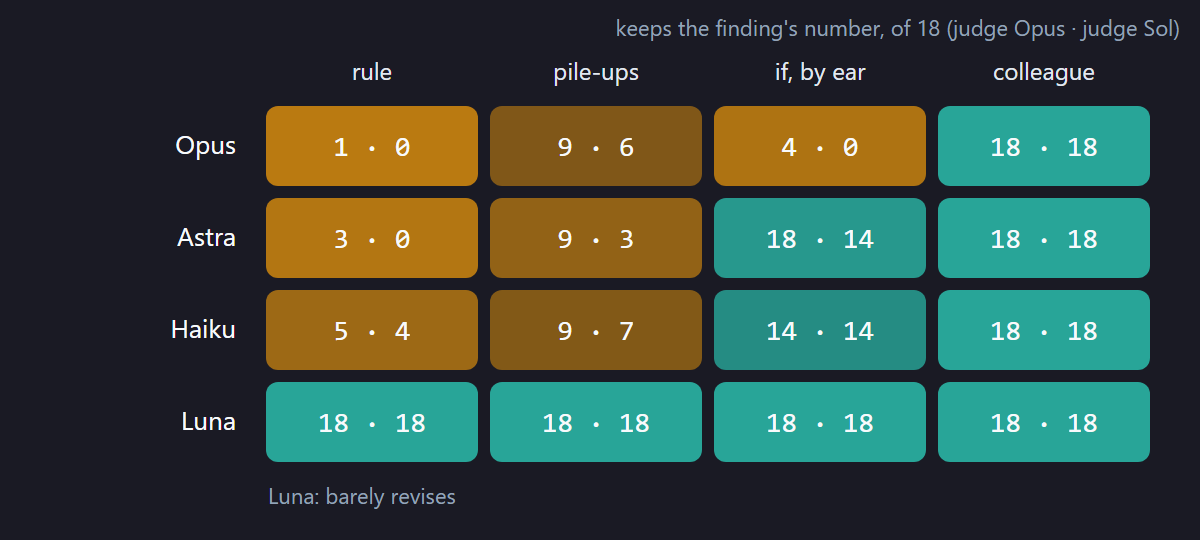
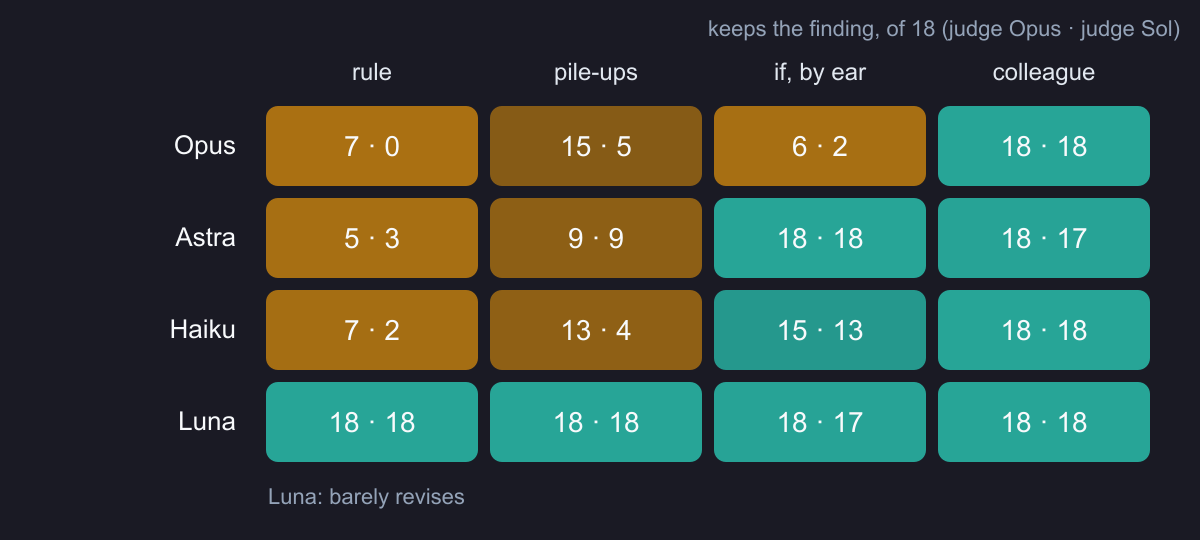
a-role-not-a-rule: real episode as the opening, finding-based judge, the exposed patch (#206)
The opening used '4 times in 791' -> 'almost never' as the damage, but that is
what the source article itself says. The real revision (agilabs-video-studio
74eb78b) shows the overfitting instead: the rule fired on lone figures that
needed nothing, and on the repetition pile-up it took the size of the finding.
Figures now come from the second judge, which reads the source article.

diff --git a/src/content/blog/en/a-role-not-a-rule.md b/src/content/blog/en/a-role-not-a-rule.md
@@ -1,6 +1,6 @@
 ---
 title: "A Role, Not a Rule"
-description: "Skills work better written as a role than as a list of rules: a rule gets applied to every case, a role carries the purpose that tells the cases apart. My video skill is one example. A numbers rule made Opus strip the finding's number from the voice; \"say it like a colleague\" kept it. I measured it across four skill versions and four models, and the more obedient the model, the worse the rule."
+description: "Skills work better written as a role than as a list of rules: a rule gets applied to every case, a role carries the purpose that tells the cases apart. My video skill is one example. A rule written against strings of figures made Opus take numbers out of the voice everywhere, including the finding that needed its size; \"say it like a colleague\" kept it. I measured it across four skill versions and four models, and the more obedient the model, the worse the rule."
 pubDate: 2026-11-14
 tags: ["AI", "Skills", "Prompting", "Evaluation", "Research"]
 lang: en
@@ -27,17 +27,17 @@ I make short narrated videos of my articles ([they're on Instagram](https://www.
 
 > Spoken numbers sparingly. Never chain several figures in a row, and avoid repetitive or unround values in the voice: say the one number that carries the point […] and leave the rest on screen or out.
 
-Then I asked Opus to revise two existing scripts with the updated skill. It removed every number from the voice:
+Then I asked Opus to revise two existing scripts with the updated skill. The line was written against strings of figures, and Opus applied it to every number in the voice, strung together or not:
 
 <div class="table-wrap"><table class="rtn-ba">
 <thead><tr><th>before</th><th>after</th></tr></thead>
 <tbody>
-<tr><td>"With the fact in plain sight, Opus adopted the wrong conclusion 4 times in 791."</td><td>"With the fact in plain sight, Opus almost never adopted the wrong conclusion."</td></tr>
-<tr><td>"Gemini 3 Flash: 88%, against 3% and 0%."</td><td>"Gemini 3 Flash: almost always, against almost never."</td></tr>
+<tr><td>"Its own subagent's report? Answered straight away 25% of the time."</td><td>"Its own subagent's report? Answered straight away a quarter of the time."</td></tr>
+<tr><td>"Aligned models: ~0.10 repetition. The base: 0.51, multi-turn 0.78."</td><td>"Aligned models barely repeat. The base does, and more over many turns."</td></tr>
 </tbody>
 </table></div>
 
-The first line was the finding of the whole article. After the revision, the voice didn't say a single figure from the study.
+The first line had one figure and nothing to fix. The swap does no harm, but the rule fired where it had no business. The second line was a real pile-up, and the fix took the finding with it: the base model repeats about five times as much as the aligned ones, and "more" doesn't say that. That is a rule overfitted to the case that prompted it: written for one symptom, applied to everything that looks like it.
 
 So I corrected the correction, three times in a row. Each version of the line is a real commit:
 
@@ -56,16 +56,7 @@ A story about my own videos isn't evidence, so I measured it.
 
 First, the same situation: the same two scripts, revised by Opus under each of the four versions, three times each.
 
-The headline of the first script, "4 times in 791", came through like this:
-
-| version | what Opus says in the three runs |
-|---|---|
-| rule | "almost never" twice, "only 4 times" once (without the 791) |
-| pile-ups | "4 times in 791" all three times |
-| if, by ear | "almost never" all three times |
-| colleague | "4 times in 791" all three times |
-
-The rule also turned "47% with long context" into "more often" all three times, which says less than the screen behind it. The episode reproduces, and the patched `if` is no better than the rule it replaced.
+The rule took the size out of the repetition line all three times ("The aligned models barely repeat. The base is on another planet."). In the subagent script, where the real revision had said "almost half", it turned "47% with long context" into "more often" all three times, which says less than the screen behind it. The patched `if` said "almost half" there, and lost the repetition gap just like the rule. Under the colleague, Opus kept the 47% all three times ("With long context, that rose to 47%"). On the repetition line it kept the three figures as they were, which isn't the fix either; I come back to that below.
 
 ## On scripts it had never seen
 
@@ -73,40 +64,40 @@ Those two scripts are the ones that broke the skill, and every version after the
 
 For each article, Opus wrote a first script with the skill as it was before any numbers line. Those six drafts are fixed. Then four models revised each draft under each of the four versions, three times: Claude Opus 5.5 and gpt-6-astra (large), Claude Haiku 5.5 and gpt-6-luna (small). That makes 288 revisions.
 
-Two LLM judges, Opus and gpt-6.1-sol, read each revision without knowing which version produced it. A revision passes if every finding the draft said with a number is still said with a number, or with an exact fraction like "a quarter" or "nine in ten". "Almost never", "more often" or "far more" don't count, and neither does moving the number to the screen. Before trusting the judges, I checked them against the reproduction above, where I had read every line myself; they agreed. On the 288 they agree with each other on 92% of the verdicts.
+Two LLM judges, Opus and gpt-6.1-sol, read each revision, together with the article it narrates, without knowing which version produced it. A revision passes if every finding the draft said with a number is still carried by the voice. When the article states a finding qualitatively, words that say the same thing pass: "almost never" for 4 times in 791 is fine when the point is that it almost never happens. When the finding is a size or a gap, the voice has to keep the size, with the number or with a fraction or ratio like "almost half" or "five times as much". "More often", "far more" or "on another planet" don't count, and neither does moving the number to the screen. Before trusting the judges, I checked them against the reproduction above, where I had read every line myself; they agreed. On the 288 they agree with each other on 86% of the verdicts.
 
 <figure class="rtn-fig">
-<svg viewBox="0 0 600 270" role="img" aria-label="Revisions that still say the finding's number, of 18, per model and skill version. Rule: Opus 1, Astra 3, Haiku 5. If by ear: Opus 4, Astra 18, Haiku 14. Colleague: 18 for every model. Luna barely revises and keeps the numbers under every version.">
-<text x="590" y="18" fill="#94a3b8" font-size="11" text-anchor="end" font-family="ui-sans-serif,system-ui,sans-serif">keeps the finding's number, of 18 (judge Opus · judge Sol)</text>
+<svg viewBox="0 0 600 270" role="img" aria-label="Revisions whose voice still carries the finding, of 18, per model and skill version, judge Opus and judge Sol. Rule: Opus 7 and 0, Astra 5 and 3, Haiku 7 and 2. If by ear: Opus 6 and 2, Astra 18 and 18, Haiku 15 and 13. Colleague: 18 for every model except Astra under Sol, 17. Luna barely revises and keeps the numbers under every version.">
+<text x="590" y="18" fill="#94a3b8" font-size="11" text-anchor="end" font-family="ui-sans-serif,system-ui,sans-serif">keeps the finding, of 18 (judge Opus · judge Sol)</text>
 <text x="186" y="40" fill="#e2e8f0" font-size="12" text-anchor="middle" font-family="ui-sans-serif,system-ui,sans-serif">rule</text>
 <text x="298" y="40" fill="#e2e8f0" font-size="12" text-anchor="middle" font-family="ui-sans-serif,system-ui,sans-serif">pile-ups</text>
 <text x="410" y="40" fill="#e2e8f0" font-size="12" text-anchor="middle" font-family="ui-sans-serif,system-ui,sans-serif">if, by ear</text>
 <text x="522" y="40" fill="#e2e8f0" font-size="12" text-anchor="middle" font-family="ui-sans-serif,system-ui,sans-serif">colleague</text>
 <text x="118" y="77" fill="#f8fafc" font-size="13" text-anchor="end" font-family="ui-sans-serif,system-ui,sans-serif">Opus</text>
-<rect x="133" y="53" width="106" height="40" rx="6" fill="#f59e0b" fill-opacity="0.73"/>
-<text x="186" y="78" fill="#f8fafc" font-size="14" text-anchor="middle" font-family="ui-monospace,'JetBrains Mono',monospace">1 · 0</text>
-<rect x="245" y="53" width="106" height="40" rx="6" fill="#f59e0b" fill-opacity="0.47"/>
-<text x="298" y="78" fill="#f8fafc" font-size="14" text-anchor="middle" font-family="ui-monospace,'JetBrains Mono',monospace">9 · 6</text>
-<rect x="357" y="53" width="106" height="40" rx="6" fill="#f59e0b" fill-opacity="0.68"/>
-<text x="410" y="78" fill="#f8fafc" font-size="14" text-anchor="middle" font-family="ui-monospace,'JetBrains Mono',monospace">4 · 0</text>
+<rect x="133" y="53" width="106" height="40" rx="6" fill="#f59e0b" fill-opacity="0.66"/>
+<text x="186" y="78" fill="#f8fafc" font-size="14" text-anchor="middle" font-family="ui-monospace,'JetBrains Mono',monospace">7 · 0</text>
+<rect x="245" y="53" width="106" height="40" rx="6" fill="#f59e0b" fill-opacity="0.50"/>
+<text x="298" y="78" fill="#f8fafc" font-size="14" text-anchor="middle" font-family="ui-monospace,'JetBrains Mono',monospace">15 · 5</text>
+<rect x="357" y="53" width="106" height="40" rx="6" fill="#f59e0b" fill-opacity="0.65"/>
+<text x="410" y="78" fill="#f8fafc" font-size="14" text-anchor="middle" font-family="ui-monospace,'JetBrains Mono',monospace">6 · 2</text>
 <rect x="469" y="53" width="106" height="40" rx="6" fill="#2dd4bf" fill-opacity="0.75"/>
 <text x="522" y="78" fill="#f8fafc" font-size="14" text-anchor="middle" font-family="ui-monospace,'JetBrains Mono',monospace">18 · 18</text>
 <text x="118" y="123" fill="#f8fafc" font-size="13" text-anchor="end" font-family="ui-sans-serif,system-ui,sans-serif">Astra</text>
-<rect x="133" y="99" width="106" height="40" rx="6" fill="#f59e0b" fill-opacity="0.70"/>
-<text x="186" y="124" fill="#f8fafc" font-size="14" text-anchor="middle" font-family="ui-monospace,'JetBrains Mono',monospace">3 · 0</text>
-<rect x="245" y="99" width="106" height="40" rx="6" fill="#f59e0b" fill-opacity="0.55"/>
-<text x="298" y="124" fill="#f8fafc" font-size="14" text-anchor="middle" font-family="ui-monospace,'JetBrains Mono',monospace">9 · 3</text>
-<rect x="357" y="99" width="106" height="40" rx="6" fill="#2dd4bf" fill-opacity="0.68"/>
-<text x="410" y="124" fill="#f8fafc" font-size="14" text-anchor="middle" font-family="ui-monospace,'JetBrains Mono',monospace">18 · 14</text>
-<rect x="469" y="99" width="106" height="40" rx="6" fill="#2dd4bf" fill-opacity="0.75"/>
-<text x="522" y="124" fill="#f8fafc" font-size="14" text-anchor="middle" font-family="ui-monospace,'JetBrains Mono',monospace">18 · 18</text>
+<rect x="133" y="99" width="106" height="40" rx="6" fill="#f59e0b" fill-opacity="0.65"/>
+<text x="186" y="124" fill="#f8fafc" font-size="14" text-anchor="middle" font-family="ui-monospace,'JetBrains Mono',monospace">5 · 3</text>
+<rect x="245" y="99" width="106" height="40" rx="6" fill="#f59e0b" fill-opacity="0.53"/>
+<text x="298" y="124" fill="#f8fafc" font-size="14" text-anchor="middle" font-family="ui-monospace,'JetBrains Mono',monospace">9 · 9</text>
+<rect x="357" y="99" width="106" height="40" rx="6" fill="#2dd4bf" fill-opacity="0.75"/>
+<text x="410" y="124" fill="#f8fafc" font-size="14" text-anchor="middle" font-family="ui-monospace,'JetBrains Mono',monospace">18 · 18</text>
+<rect x="469" y="99" width="106" height="40" rx="6" fill="#2dd4bf" fill-opacity="0.74"/>
+<text x="522" y="124" fill="#f8fafc" font-size="14" text-anchor="middle" font-family="ui-monospace,'JetBrains Mono',monospace">18 · 17</text>
 <text x="118" y="169" fill="#f8fafc" font-size="13" text-anchor="end" font-family="ui-sans-serif,system-ui,sans-serif">Haiku</text>
-<rect x="133" y="145" width="106" height="40" rx="6" fill="#f59e0b" fill-opacity="0.60"/>
-<text x="186" y="170" fill="#f8fafc" font-size="14" text-anchor="middle" font-family="ui-monospace,'JetBrains Mono',monospace">5 · 4</text>
-<rect x="245" y="145" width="106" height="40" rx="6" fill="#f59e0b" fill-opacity="0.48"/>
-<text x="298" y="170" fill="#f8fafc" font-size="14" text-anchor="middle" font-family="ui-monospace,'JetBrains Mono',monospace">9 · 7</text>
-<rect x="357" y="145" width="106" height="40" rx="6" fill="#2dd4bf" fill-opacity="0.62"/>
-<text x="410" y="170" fill="#f8fafc" font-size="14" text-anchor="middle" font-family="ui-monospace,'JetBrains Mono',monospace">14 · 14</text>
+<rect x="133" y="145" width="106" height="40" rx="6" fill="#f59e0b" fill-opacity="0.64"/>
+<text x="186" y="170" fill="#f8fafc" font-size="14" text-anchor="middle" font-family="ui-monospace,'JetBrains Mono',monospace">7 · 2</text>
+<rect x="245" y="145" width="106" height="40" rx="6" fill="#f59e0b" fill-opacity="0.54"/>
+<text x="298" y="170" fill="#f8fafc" font-size="14" text-anchor="middle" font-family="ui-monospace,'JetBrains Mono',monospace">13 · 4</text>
+<rect x="357" y="145" width="106" height="40" rx="6" fill="#2dd4bf" fill-opacity="0.68"/>
+<text x="410" y="170" fill="#f8fafc" font-size="14" text-anchor="middle" font-family="ui-monospace,'JetBrains Mono',monospace">15 · 13</text>
 <rect x="469" y="145" width="106" height="40" rx="6" fill="#2dd4bf" fill-opacity="0.75"/>
 <text x="522" y="170" fill="#f8fafc" font-size="14" text-anchor="middle" font-family="ui-monospace,'JetBrains Mono',monospace">18 · 18</text>
 <text x="118" y="215" fill="#f8fafc" font-size="13" text-anchor="end" font-family="ui-sans-serif,system-ui,sans-serif">Luna</text>
@@ -114,13 +105,13 @@ Two LLM judges, Opus and gpt-6.1-sol, read each revision without knowing which v
 <text x="186" y="216" fill="#f8fafc" font-size="14" text-anchor="middle" font-family="ui-monospace,'JetBrains Mono',monospace">18 · 18</text>
 <rect x="245" y="191" width="106" height="40" rx="6" fill="#2dd4bf" fill-opacity="0.75"/>
 <text x="298" y="216" fill="#f8fafc" font-size="14" text-anchor="middle" font-family="ui-monospace,'JetBrains Mono',monospace">18 · 18</text>
-<rect x="357" y="191" width="106" height="40" rx="6" fill="#2dd4bf" fill-opacity="0.75"/>
-<text x="410" y="216" fill="#f8fafc" font-size="14" text-anchor="middle" font-family="ui-monospace,'JetBrains Mono',monospace">18 · 18</text>
+<rect x="357" y="191" width="106" height="40" rx="6" fill="#2dd4bf" fill-opacity="0.74"/>
+<text x="410" y="216" fill="#f8fafc" font-size="14" text-anchor="middle" font-family="ui-monospace,'JetBrains Mono',monospace">18 · 17</text>
 <rect x="469" y="191" width="106" height="40" rx="6" fill="#2dd4bf" fill-opacity="0.75"/>
 <text x="522" y="216" fill="#f8fafc" font-size="14" text-anchor="middle" font-family="ui-monospace,'JetBrains Mono',monospace">18 · 18</text>
 <text x="134" y="252" fill="#94a3b8" font-size="11" font-family="ui-sans-serif,system-ui,sans-serif">Luna: barely revises</text>
 </svg>
-<figcaption>Six fresh articles, three revisions each per model and version, judged blind by two judges. The rule drops the finding's number on every model that actually revises; the patched "if" drops it on Opus; "say it like a colleague" keeps it everywhere.</figcaption>
+<figcaption>Six fresh articles, three revisions each per model and version, judged blind by two judges. The rule loses the finding on every model that actually revises; the patched "if" loses it on Opus; "say it like a colleague" keeps it everywhere.</figcaption>
 </figure>
 
 Here's what that looks like on one article. The draft's finding was "iterating solved 86%. Clean restarts: 69%. The button: 91%." Opus revised it like this:
@@ -133,26 +124,26 @@ The first two read well, and that's the problem. Nothing in them is wrong; the r
 
 ## The more obedient the model, the worse the rule
 
-The rule loses the number on every model that actually revises: Opus keeps it in 1 revision out of 18, Astra in 3, Haiku in 5. The patched `if` splits them. Astra and Haiku mostly keep the number with it (Astra 14 to 18 out of 18 depending on the judge, Haiku 14), and Opus drops it almost every time (4 and 0). The model that follows instructions best is the one that takes "say what it means in words" and applies it to every number it finds.
+The rule loses the finding on every model that actually revises: depending on the judge, Opus keeps it in 0 to 7 revisions out of 18, Astra in 3 to 5, Haiku in 2 to 7. The patched `if` splits them. Astra and Haiku mostly keep the finding with it (Astra 18 out of 18 with both judges, Haiku 13 to 15), and Opus drops it most of the time (6 and 2). The model that follows instructions best is the one that takes "say what it means in words" and applies it to every number it finds.
 
 That matches my episode, which was with Opus: every escape route in the instruction gets taken. It's also the general argument from the top. The better the model follows a rule, the more it matters that the rule is wrong in some case, and a rule always is.
 
 Luna is the exception in the other direction. It hardly revises at all: it returns the draft nearly as it was, numbers included, under every version. Keeping every number isn't a virtue there, because Luna ignores the correction.
 
-What I can't settle from this is whether the colleague brings back the pile-ups that started it all. The judges scored a bit more leftover figure-reading for it than for the rule, which strips everything, but I didn't check that score against my own ear the way I checked the main verdict. In the video I made with the colleague version, I don't hear any pile-up.
+The colleague isn't spotless either. The judges also marked runs of figures, and the colleague leaves more of them than the rule, which strips everything: "from 0.958 with state alone to 0.999", or a row of decimals read one after another. Part of that comes from somewhere else in the skill. All four versions carried an older line, written the same way: give the finding "with its exact number", as the article writes it, "same rounding, same units". Under the rule, the rule won. Under the colleague, that old patch was in charge again. Swapping the rule for a role brought out the other patches written like it, and those needed their own fixes. In the video I made with the colleague version, I don't hear any pile-up.
 
 ## When a plain rule is enough
 
 The same question on simpler material bounds the effect: a 40-60 second briefing for an internal podcast, audio only, written from scratch rather than revised.
 
-- A rule with a cap, "say at most the one figure that carries the point", dropped the essential figure there too: Opus kept it in 6 briefings out of 18 and Astra in 4. When the news is "from 9 to 12 euros" or "4 out of 791", a single figure can't carry it.
+- A rule with a cap, "say at most the one figure that carries the point", dropped the essential figure there too: Opus kept it in 6 briefings out of 18 and Astra in 4. When the news is "from 9 to 12 euros", a single figure can't carry it.
 - A rule without a cap, "don't string unround numbers together; round when the source allows", kept the essential figure in every model, 17 or 18 out of 18. It also cleaned up the recitation better than "like a colleague" did.
 
 So a rule isn't wrong by being a rule. The briefing had no screen to move numbers to, and the model wrote it from scratch instead of revising something that already had them. My video skill had both: "leave the rest on screen", and a script full of numbers to apply it to. I haven't isolated which of the two matters; that would take the same skill with and without the screen.
 
 ## What I take from it
 
-A rule fails when it gives the model somewhere else to put the thing ("on screen", "in words") or a cap ("the one number"): a capable model uses it on every instance, including the one that mattered. Patching it with conditions adds more instructions to follow to the letter. A role gives the model the purpose, and the purpose knows which number is the finding.
+A rule is fitted to the case that prompted it, and a capable model applies it to everything that resembles that case. It fails worst when it gives the model somewhere else to put the thing ("on screen", "in words") or a cap ("the one number"): a capable model uses it on every instance, including the one that mattered. Patching it with conditions adds more instructions to follow to the letter, and a rule is rarely alone: swapping one for a role shows the others written the same way. A role gives the model the purpose, and the purpose knows which number is the finding.
 
 So before writing the next rule into a skill, I ask who would do this task well without being told the rules, and write that person in. For documentation it's a librarian; for narration, someone explaining a result to a colleague. Where there's no escape route and no cap, a plain rule did as well, and sometimes better.
 
